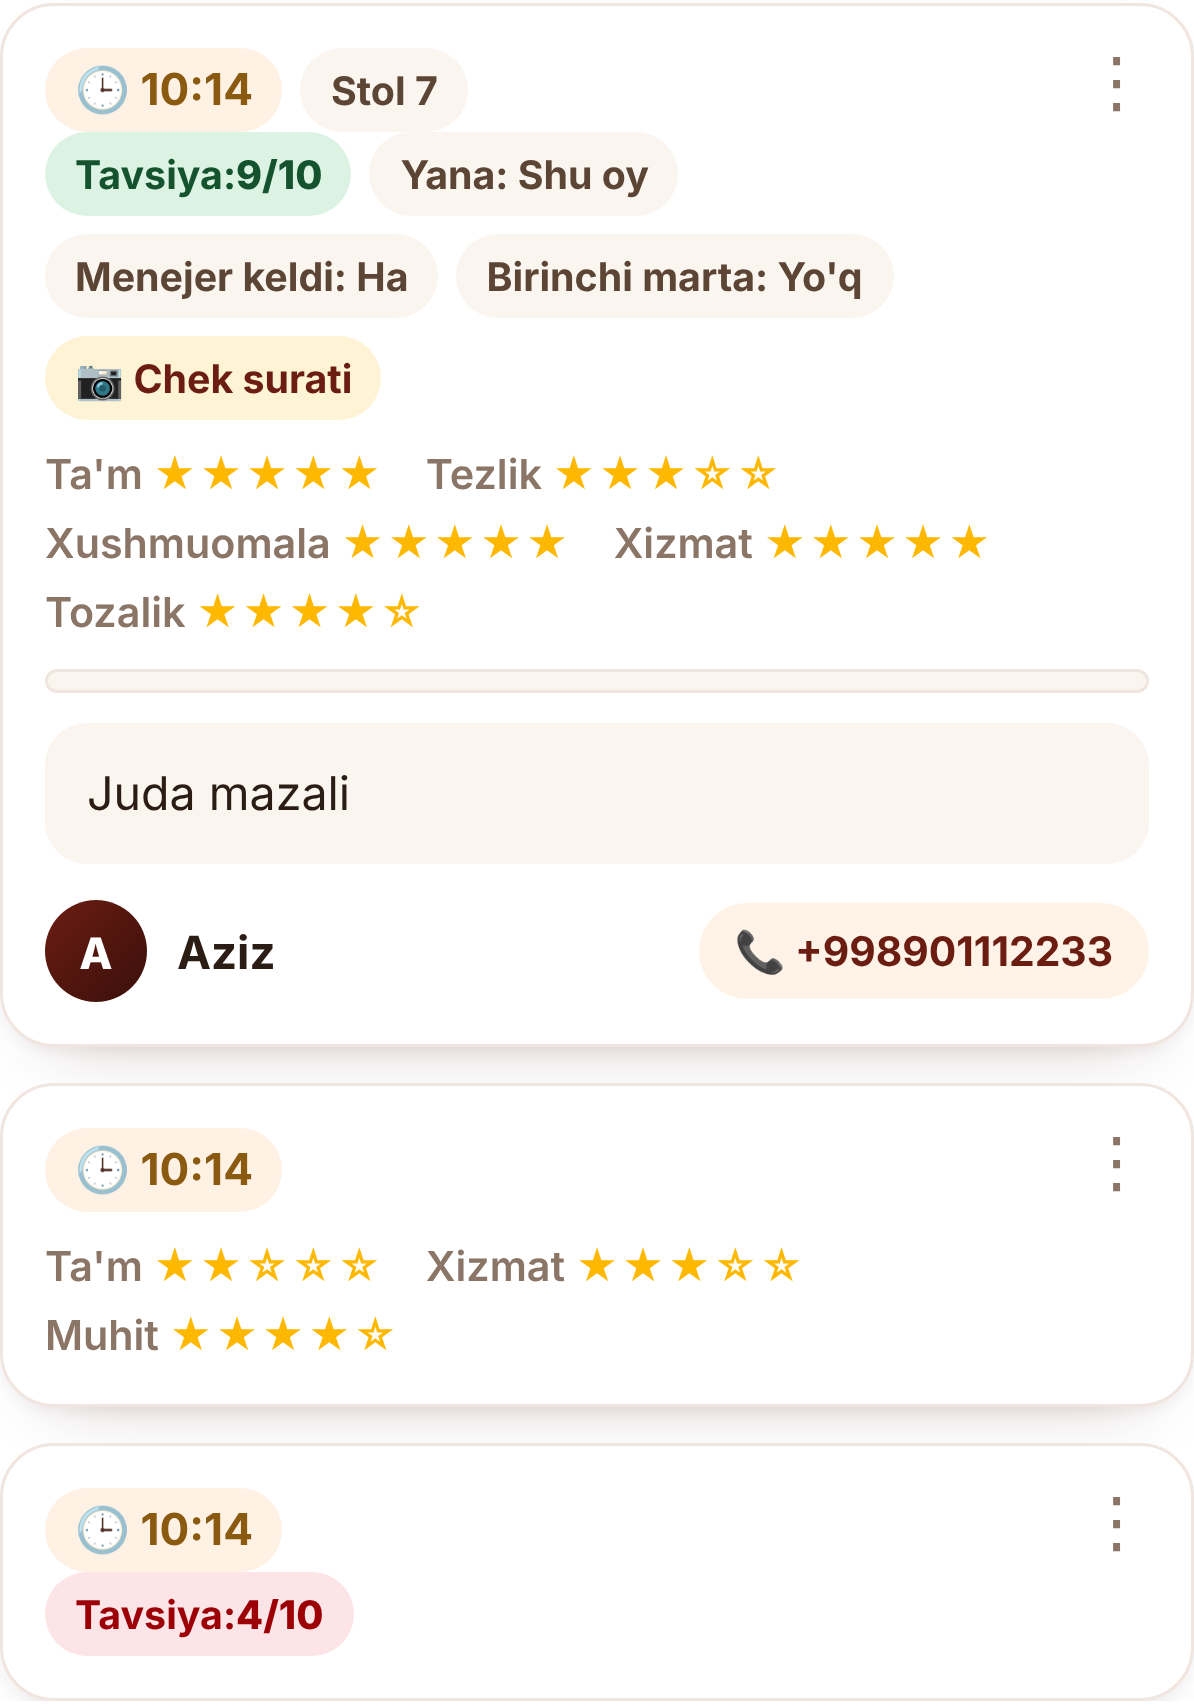
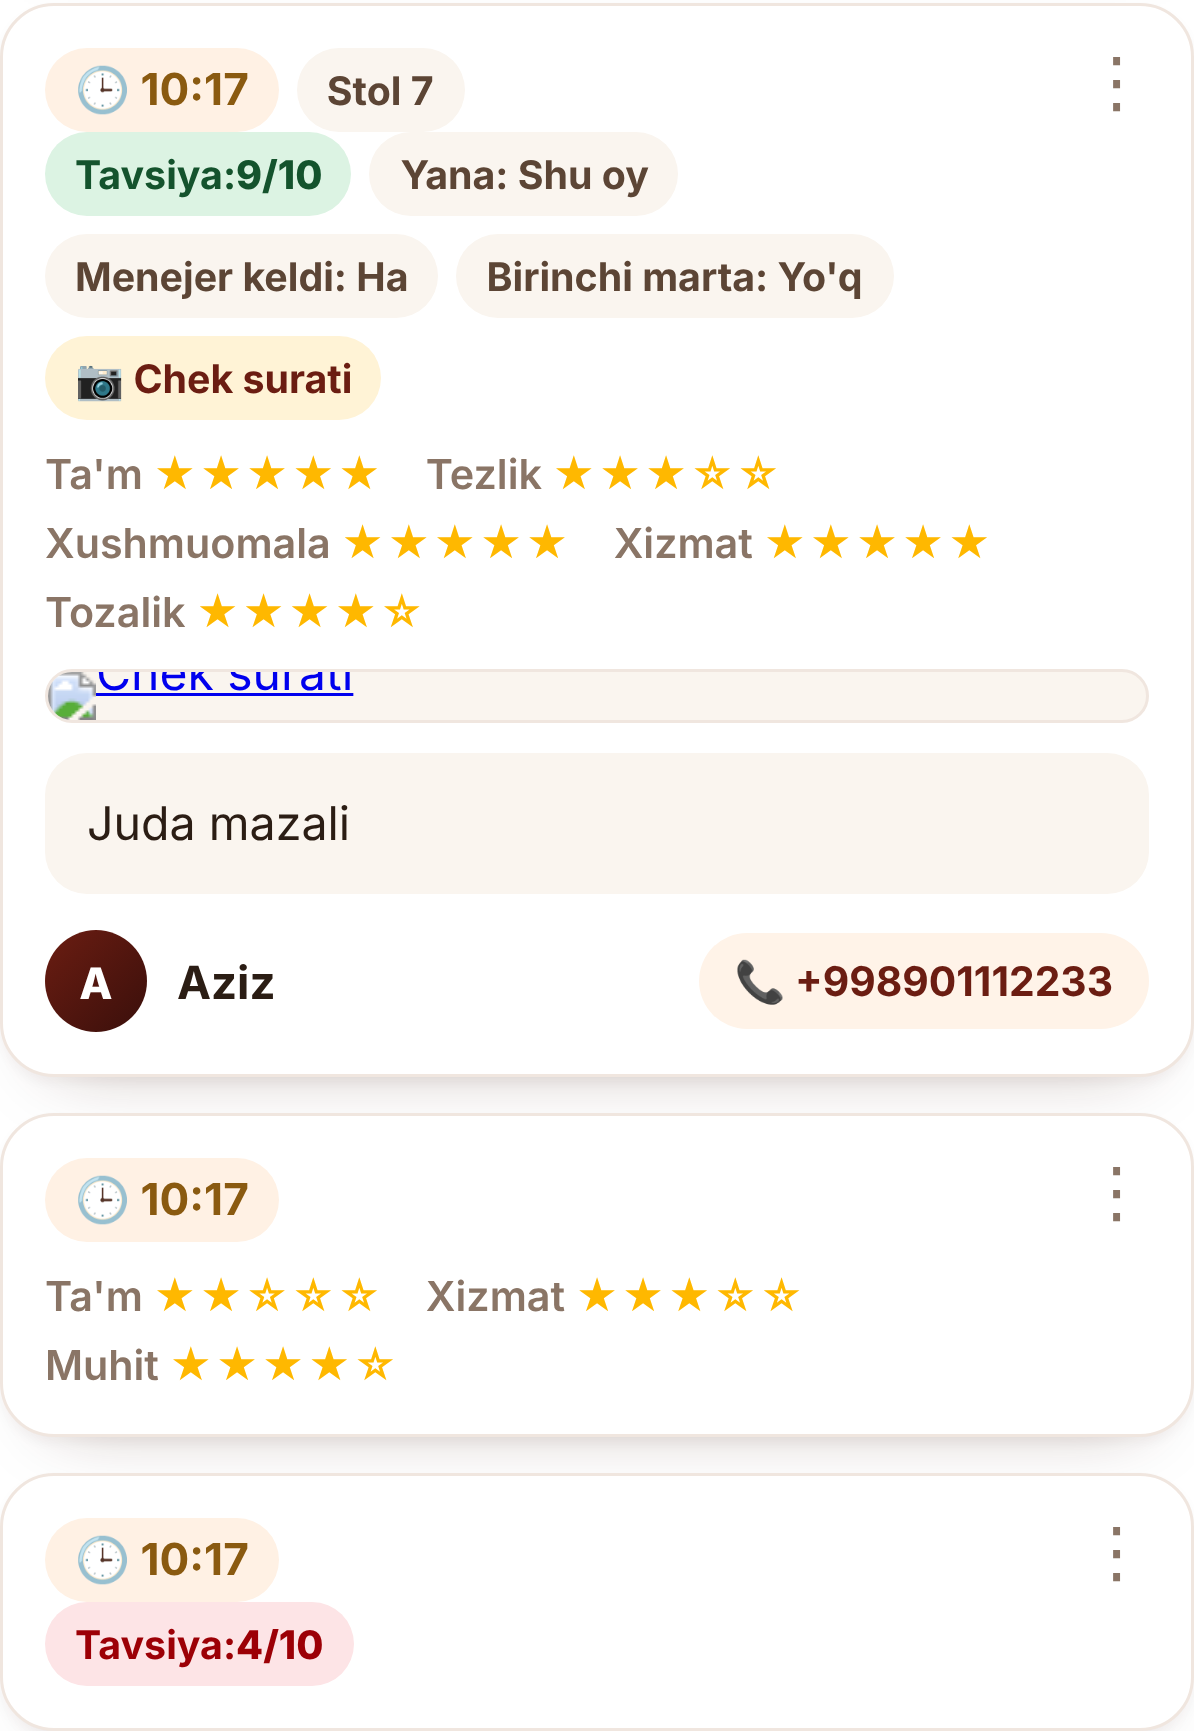
Admin: chek saqlanmaganda Google xatosi matni ko'rinadi
Claude-Session: https://claude.ai/code/session_01ErkGyr2KQrSDH36ywJDecy

diff --git a/index.html b/index.html
@@ -8,7 +8,7 @@
 <meta http-equiv="Expires" content="0">
 <script>
   // Yangi versiya chiqqan bo'lsa, sahifani avtomatik yangilaydi
-  const APP_VERSION = "20261116051445";
+  const APP_VERSION = "20261116051736";
   fetch("version.json?t=" + Date.now(), { cache: "no-store" })
     .then(r => r.json())
     .then(j => {
@@ -1815,7 +1815,7 @@ body.fm #branchName { min-width: 0; line-height: 1.3; }
       x.when ? `<span class="chip">Yana: ${esc(x.when)}</span>` : "",
       x.manager ? `<span class="chip">Menejer keldi: ${esc(x.manager)}</span>` : "",
       x.first ? `<span class="chip">Birinchi marta: ${esc(x.first)}</span>` : "",
-      photoErr ? `<span class="chip cnps r" title="${esc(x.photo)}">📷 Chek saqlanmadi (Drive ruxsati yo'q)</span>` : x.photo ? `<a class="chip chekl" href="${esc(x.photo)}" target="_blank" rel="noopener">📷 Chek surati</a>` : ""
+      photoErr ? `<span class="chip cnps r" style="white-space:normal">📷 Chek saqlanmadi: ${esc(String(x.photo).replace(/^XATO:\s*/, ""))}</span>` : x.photo ? `<a class="chip chekl" href="${esc(x.photo)}" target="_blank" rel="noopener">📷 Chek surati</a>` : ""
     ].join("");
     const pid = x.photo && !photoErr ? (String(x.photo).match(/\/d\/([\w-]+)/) || [])[1] : "";
     const thumb = pid ? `<a class="chekth" href="${esc(x.photo)}" target="_blank" rel="noopener"><img src="https://drive.google.com/thumbnail?id=${esc(pid)}&sz=w600" alt="Chek surati" loading="lazy"></a>` : "";
